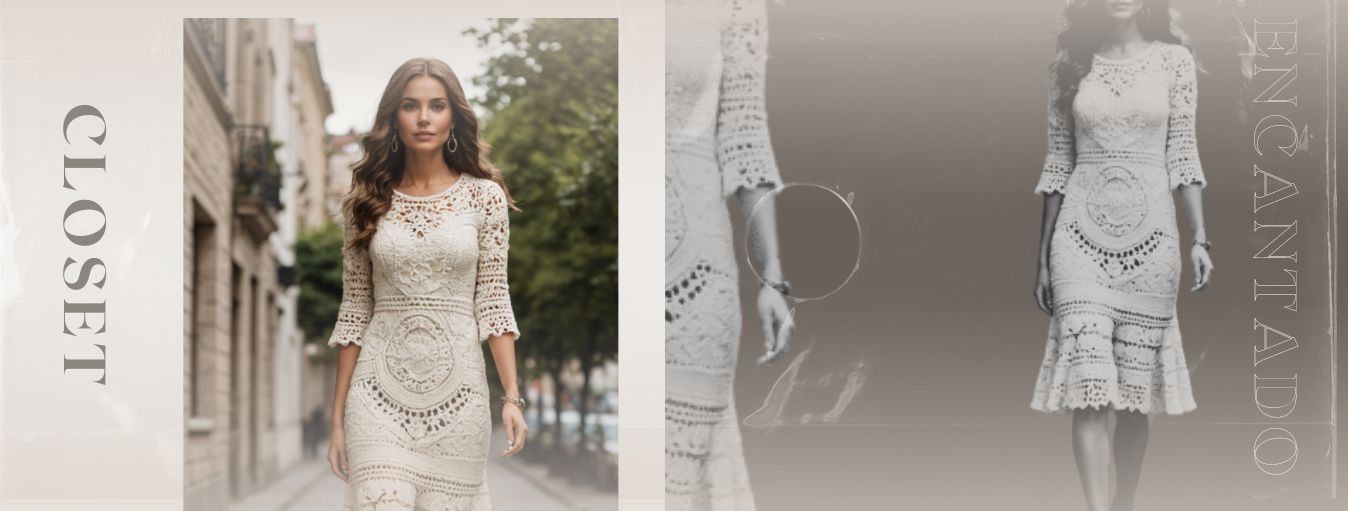
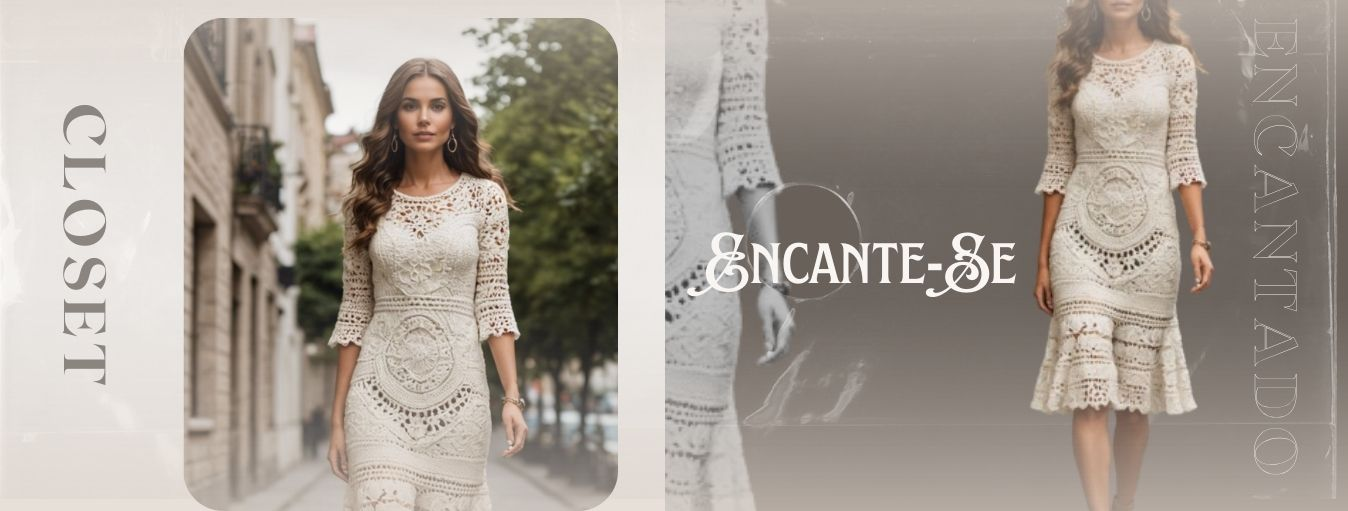
Texto principal

diff --git a/script.js b/script.js
@@ -1,15 +1,25 @@
 let banners = document.querySelectorAll('.banner');
-    let currentBannerIndex = 0;
+let texts = document.querySelectorAll('.text');
+let currentIndex = 0;
 
-    function alternarBanner() {
-      if (banners[currentBannerIndex]) {
-        banners[currentBannerIndex].classList.remove('selecionado');
-      }
-      currentBannerIndex = (currentBannerIndex + 1) % banners.length;
-      if (banners[currentBannerIndex]) {
-        banners[currentBannerIndex].classList.add('selecionado');
-    console.log("estou funcionando")
-    }
+function alternarBanner() {
+    // Remover a classe 'selecionado' do banner e do texto atual
+    if (banners[currentIndex] && texts[currentIndex]) {
+        banners[currentIndex].classList.remove('selecionado');
+        texts[currentIndex].classList.remove('selecionado');
     }
 
-    setInterval(alternarBanner, 6000);
+    // Atualizar o índice para o próximo banner e texto
+    currentIndex = (currentIndex + 1) % banners.length;
+
+    // Adicionar a classe 'selecionado' ao próximo banner e texto
+    if (banners[currentIndex] && texts[currentIndex]) {
+        banners[currentIndex].classList.add('selecionado');
+        texts[currentIndex].classList.add('selecionado');
+    }
+
+    console.log("Alternando banner e texto");
+}
+
+// Alternar a cada 6 segundos
+setInterval(alternarBanner, 6000);

diff --git a/index.html b/index.html
@@ -35,9 +35,18 @@
         </div>
     </header>
 
+    <section class="principal__text">
+        <h1 class="text selecionado"> A cada dia encante - <span class="destaque1">SE</span></h1>
+        <h1 class="text"> A cada dia transforme - <span class="destaque2">SE</span></h1>
+        <h1 class="text"> A cada dia renove - <span class="destaque3">SE</span></h1>
+        <h1 class="text"> A cada dia admire - <span class="destaque4">SE</span></h1>
+    </section>
+    
     <section id="banners">
-        <img  class="banner" src="./images/1.jpg">
-        <img  class="banner selecionado" src="./images/2.jpg">
+        <img  class="banner selecionado" src="./images/1.jpg">
+        <img  class="banner" src="./images/2.jpg">
+        <img  class="banner" src="./images/3.jpg">
+        <img  class="banner" src="./images/4.jpg">
       </section>
     <script src="./script.js"></script>
 </body>

diff --git a/css/style.css b/css/style.css
@@ -16,7 +16,7 @@ body {
 header {
     color: #350D0E;
     margin-top: -2rem;
-    height: 15rem;
+    height: 13rem;
     display: flex;
     justify-content: space-around;
     align-items: center;
@@ -65,7 +65,7 @@ header {
     width: 100%;
 }
 #banners {
-    max-height: 46.9rem;
+    max-height: 43.4rem;
     overflow: hidden;
 }
 .banner {
@@ -75,6 +75,31 @@ header {
     position: relative;
 }
 .selecionado {
-    transition: 2s ease-in-out;
     display: inline-block;
+}
+
+.principal__text {
+    display: flex;
+    justify-content: center;
+    align-items: center;
+
+}
+.text {
+    font-size: 4rem;
+    display: none;
+}
+.text.selecionado {
+    display: inline-block;
+}
+.destaque1{
+    color: #C6B7AA;
+}
+.destaque2{
+    color: #3C5547;
+}
+.destaque3{
+    color: #6E8186;
+}
+.destaque4{
+    color: #C6B7AA;
 }
